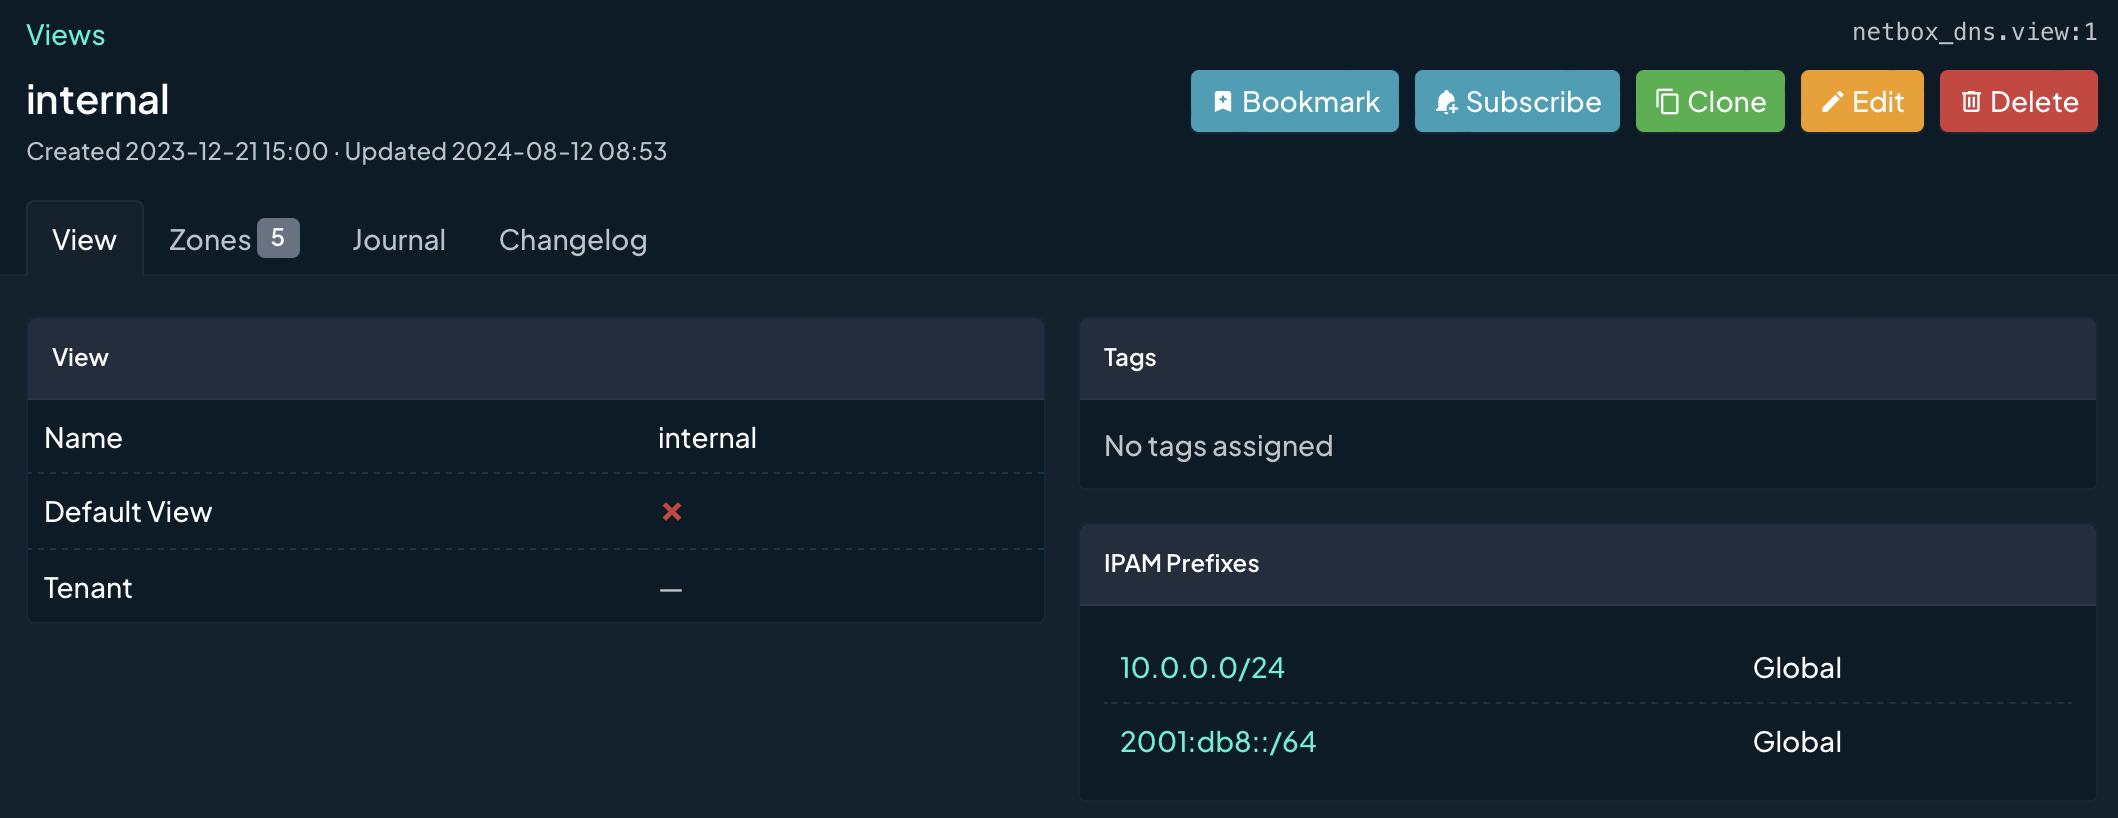
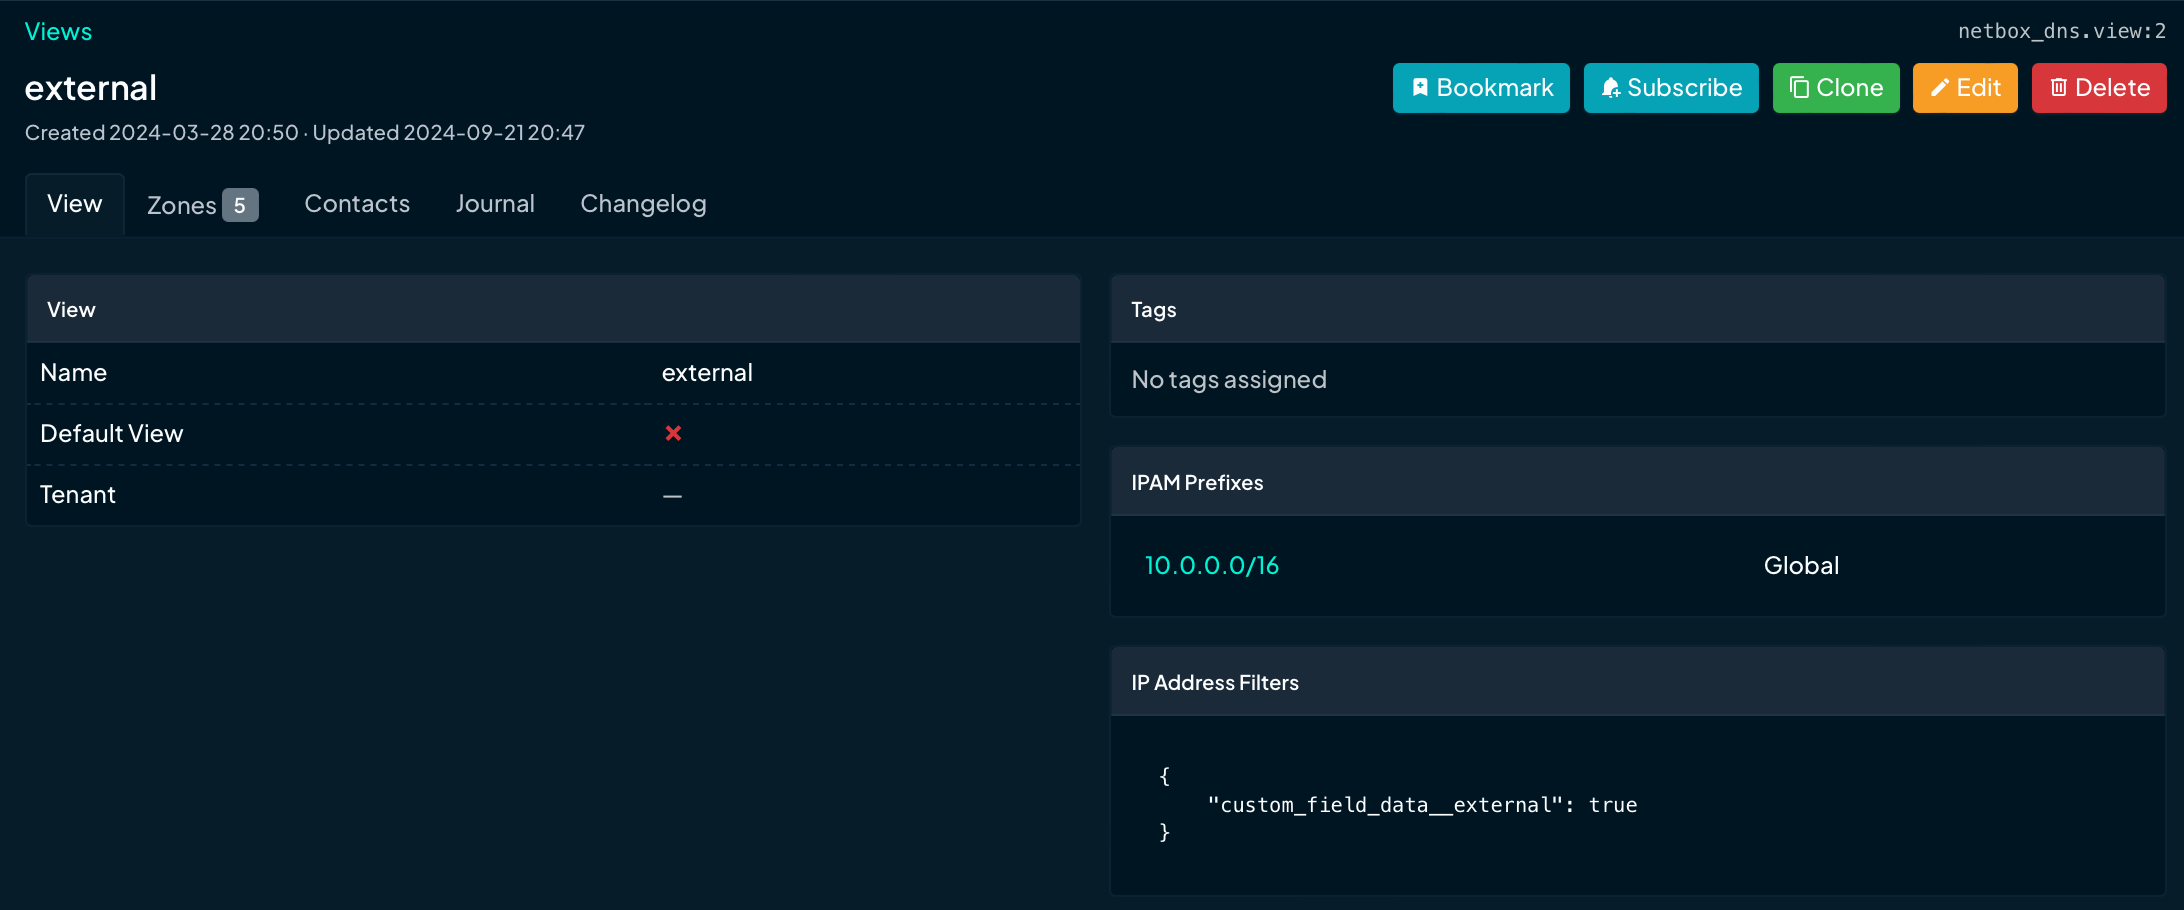
Updated documentation

diff --git a/docs/using_netbox_dns.md b/docs/using_netbox_dns.md
@@ -185,13 +185,15 @@ To use tags, the `extras.view_tag` permission is required as well.
 #### Fields
 The following fields are defined for views:
 
-Field            | Required | Explanation
------            | -------- | -----------
-**Name**         | Yes      | The name of the view
-**Default View** | Yes      | The view is the default view. This flag is set for exactly one view, setting it for a different view removes it from the former default view
-**Description**  | No       | A short textual description of the view
-**Tags**         | No       | NetBox tags assigned to the view. Tags can be used to categorise views by arbitrary criteria such as Production/Test/Development systems
-**Tenant**       | No       | The tenant the view is assined to
+Field                 | Required | Explanation
+-----                 | -------- | -----------
+**Name**              | Yes      | The name of the view
+**Default View**      | Yes      | The view is the default view. This flag is set for exactly one view, setting it for a different view removes it from the former default view
+**Description**       | No       | A short textual description of the view
+**IPAM Prefixes**     | No       | A list of IPAM prefixes to link to the view for IPAM DNSsync. If prefixes are assigned to a view, IPAM DNSsync will try to find a a matching zone in the view if an IP Address has a DNS name assigned to it, and create an address record for that DNS name in the longest matching zone.
+**IP Address Filter** | No       | A set of filter criteria for IP Address objects that determine whether or not IPAM DNSsync should create address records for it. If the field is empty, all IP Addresses will be considered for address record creation, otherwise only IP addresses matching the criteria will get address records. The syntax is the same as for object permissions in NetBox.
+**Tags**              | No       | NetBox tags assigned to the view. Tags can be used to categorise views by arbitrary criteria such as Production/Test/Development systems
+**Tenant**            | No       | The tenant the view is assined to
 
 ### Name servers
 Name server objects correspond to name servers in the DNS infrastructure and are basically fully qualified domain names (FQDN) of hosts running name server instances.
@@ -971,6 +973,28 @@ PLUGINS_CONFIG = {
 If this flag is set to `True`, NetBox DNS deactivates existing address records if there is a conflict with an address record automatically generated by IPAM DNSsync. This generally makes it much easier to transition from manually created address records to IPAM DNSsync.
 
 This only affects address records, other records that may cause conflicts with automatically generated address records (such as `CNAME` records with the same name) still must be manually cleaned up. Please also note that the address records are only deactivated, not deleted. Reviewing the changes and deleting records that are no longer needed is left to the user.
+
+### IP Address Filtering
+Normally, all IP addresses in a prefix assigned to a DNS view will be considered as candidates for creating address records. In some cases, however, this is not the desired behaviour, e.g. for external zones that should not get records for all IP addresses that are present in internal zones.
+
+For this use case, it is possible to define filters per DNS view that provide additional criteria for which IP addresses should get address records in DNS. The syntax is essentially the same as for NetBox object permissions and defines a Django filter expression that can be used against `ipam.IPAddress` objects. If, for example, only names starting with the string `external-` are to be published in the `external` zone, the filter would look like this:
+
+```
+{
+    "dns_name__startswith": "external"
+}
+``` 
+
+As a more practical example, the user can create a boolean custom field named `external`, and define the following IP address filter for the external view:
+
+```
+{
+    "custom_field_data__external": true
+}
+```
+
+If defined that way, only IP addresses with the `external` custom field set to `True` will get address records in zones in the `external` view, while zones in other views are not restricted.
+
 
 ### Disabling DNSsync
 IPAM DNSsync modifies the core functionality for IPAM `Prefix` and `IPAddress` objects in some ways by modifying the functionality of saving and deleting objects of these classes. If the functionality of IPAM DNSsync is not required and the impact of having NetBox DNS installed on systems where this is the case needs to be minimized, these mechanisms can be disabled by setting the `dnssync_disabled` variable in `configuration.py`:
